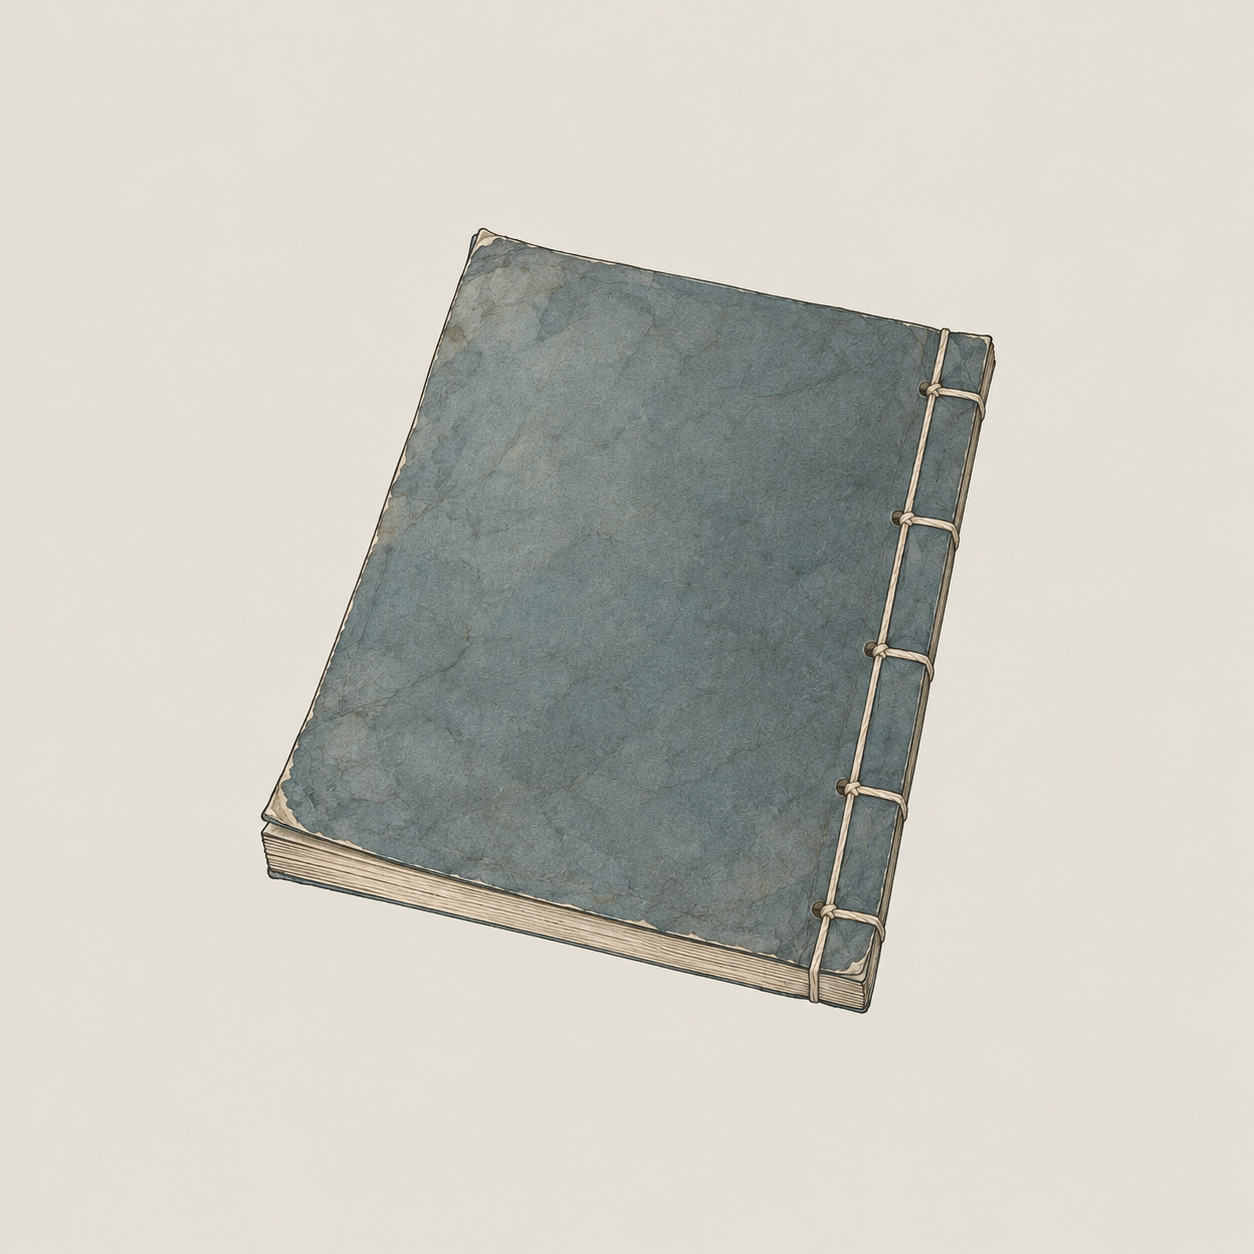
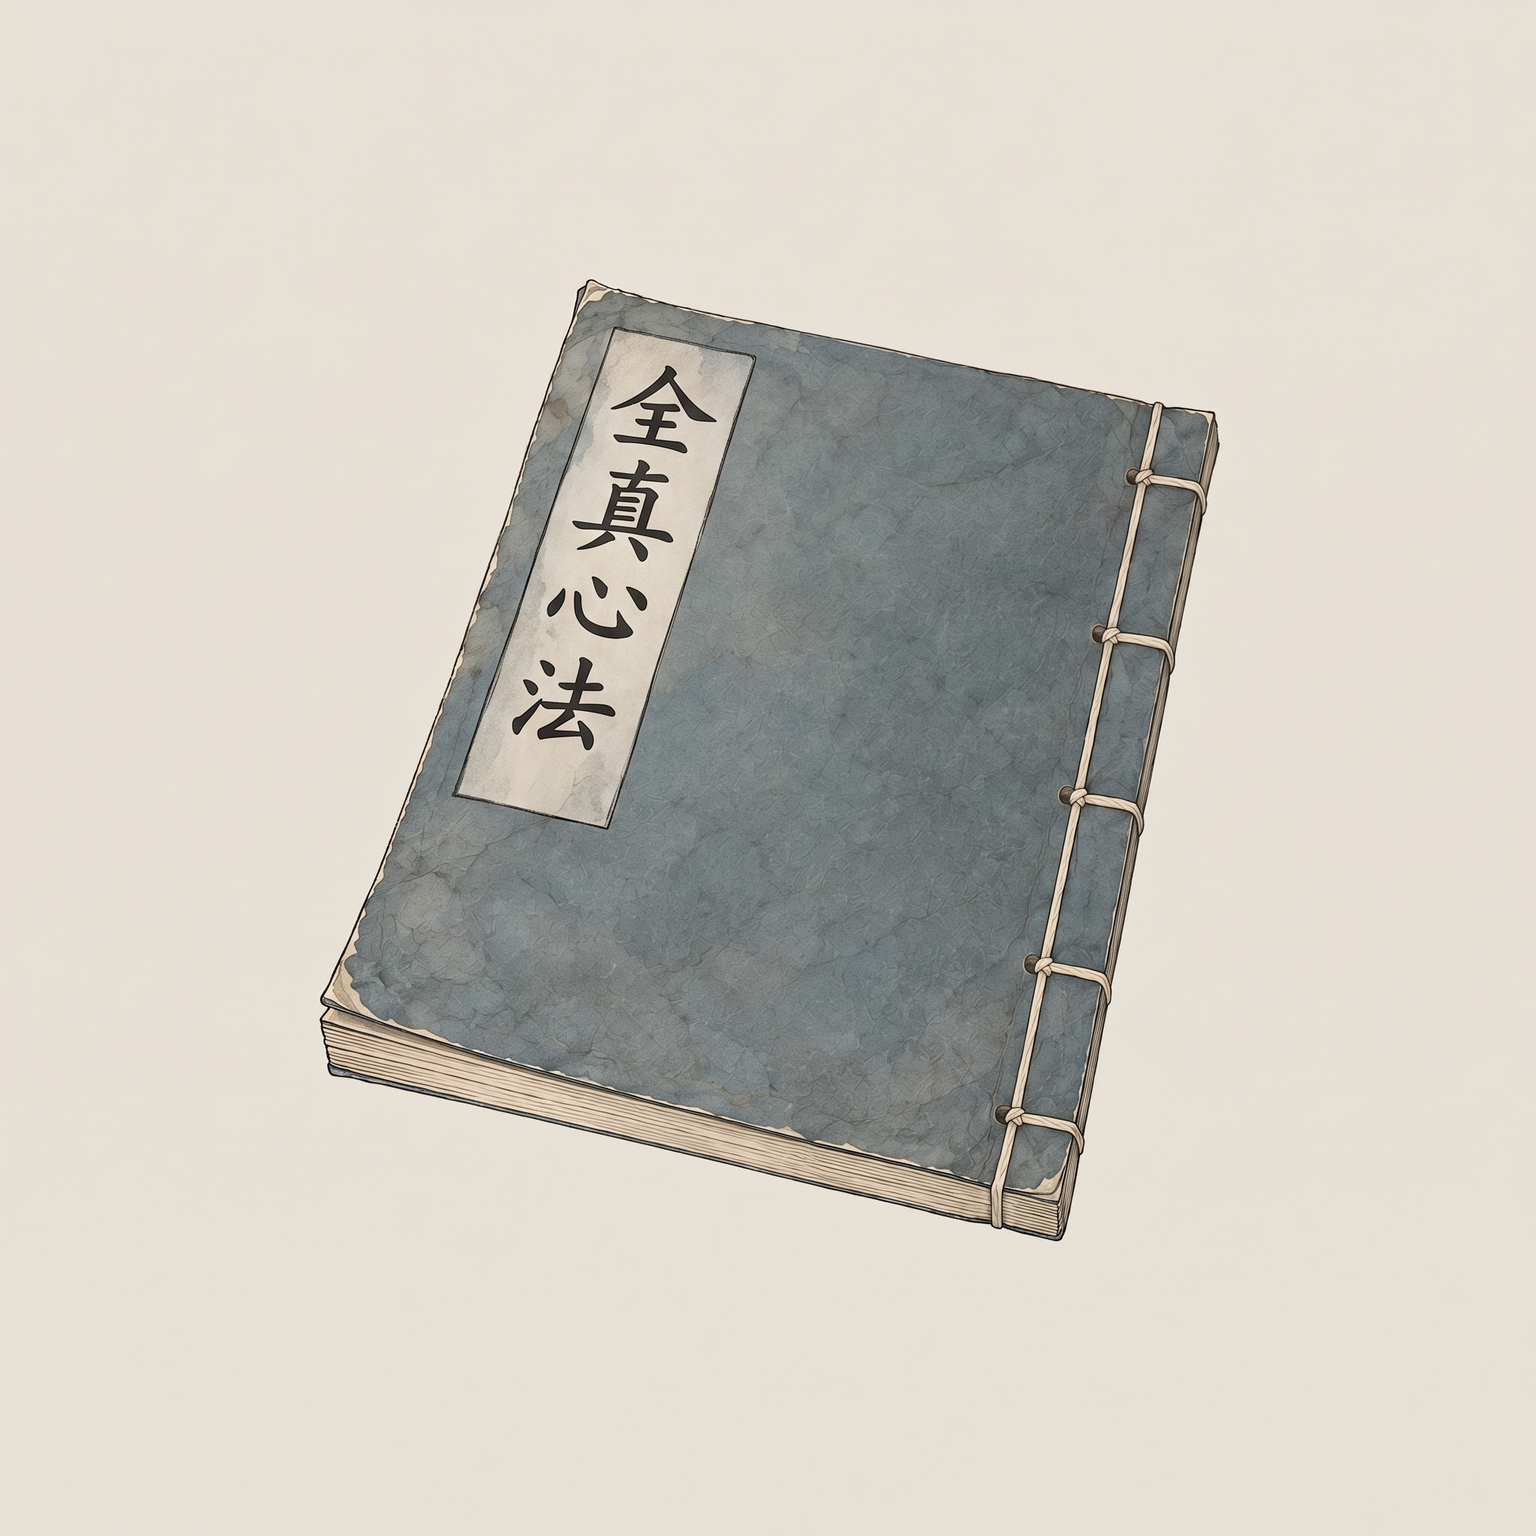
assets(gemini): it_miji_quanzhenxinfa 全真心法抄本

diff --git a/assets/default/prompts/INDEX.md b/assets/default/prompts/INDEX.md
@@ -3,7 +3,7 @@
 > 本文件由 `tools/agents/build_image_index.py` 生成，不要手改；改提示词就改各文件，改规程就改各组 `GUIDE.md`，然后重新生成。
 > 人物立绘另见 `characters/INDEX.md`（别的 agent 在出，不在本索引）。建筑套件与贴片已出齐，只列完成度。
 
-提示词 **627** 份：已入库 249、待出图 238、已通过（作者） 140。**待出图队列 238 行**（`python3 tools/agents/build_image_index.py --queue`）。
+提示词 **627** 份：已入库 250、待出图 238、已通过（作者） 139。**待出图队列 238 行**（`python3 tools/agents/build_image_index.py --queue`）。
 
 ## 出图 agent 怎么用
 
@@ -403,7 +403,7 @@
 | 122 | 猪肚 | `it_zhudu` | 黄 | 食材·肉 | 待出图 | [it_zhudu.md](items/food/it_zhudu.md) | template |
 | 123 | 猪肉 | `it_zhurou` | 黄 | 食材·肉 | 待出图 | [it_zhurou.md](items/food/it_zhurou.md) | template |
 
-### 武学秘籍（18）· 已入库 10、已通过（作者） 8
+### 武学秘籍（18）· 已入库 11、已通过（作者） 7
 
 （已全部入库。）
 
